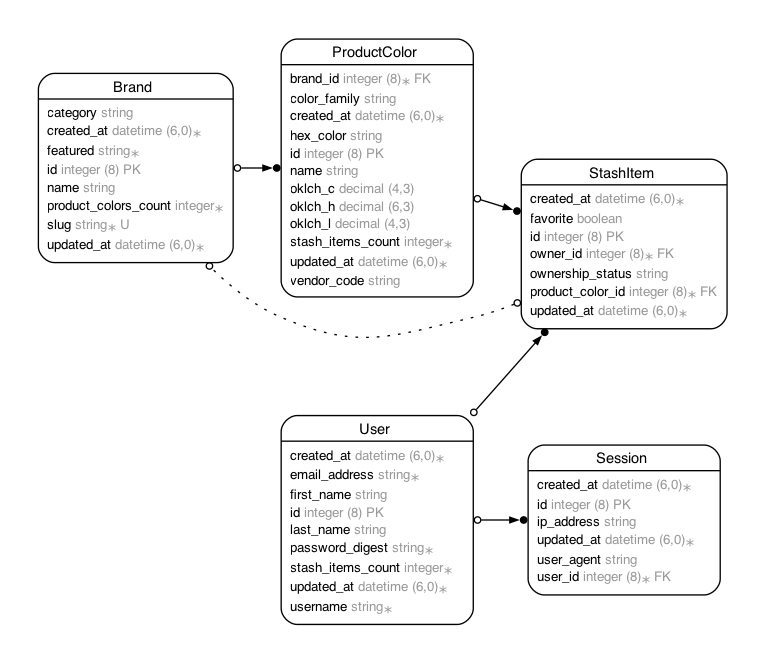
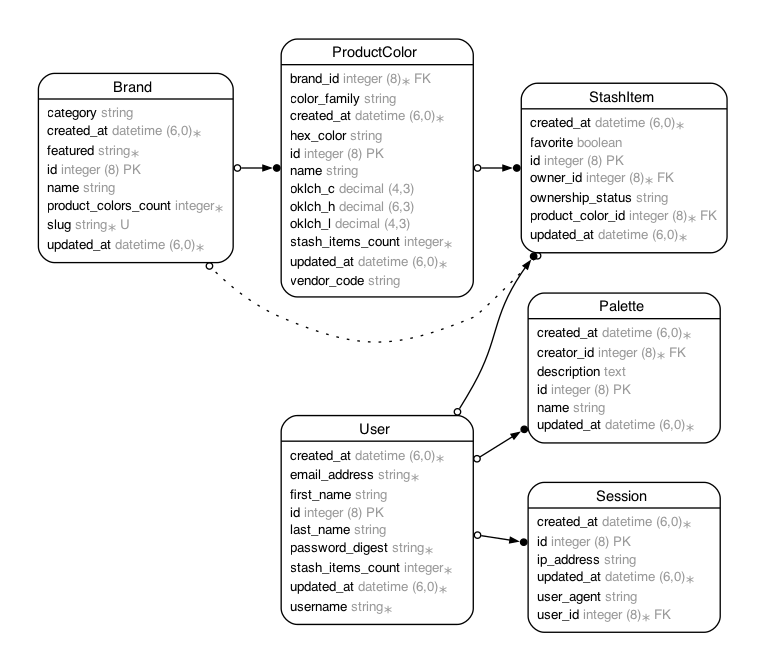
generate palette scaffold

diff --git a/app/controllers/palettes_controller.rb b/app/controllers/palettes_controller.rb
@@ -1,0 +1,70 @@
+class PalettesController < ApplicationController
+  before_action :set_palette, only: %i[ show edit update destroy ]
+
+  # GET /palettes or /palettes.json
+  def index
+    @palettes = Palette.all
+  end
+
+  # GET /palettes/1 or /palettes/1.json
+  def show
+  end
+
+  # GET /palettes/new
+  def new
+    @palette = Palette.new
+  end
+
+  # GET /palettes/1/edit
+  def edit
+  end
+
+  # POST /palettes or /palettes.json
+  def create
+    @palette = Palette.new(palette_params)
+
+    respond_to do |format|
+      if @palette.save
+        format.html { redirect_to @palette, notice: "Palette was successfully created." }
+        format.json { render :show, status: :created, location: @palette }
+      else
+        format.html { render :new, status: :unprocessable_entity }
+        format.json { render json: @palette.errors, status: :unprocessable_entity }
+      end
+    end
+  end
+
+  # PATCH/PUT /palettes/1 or /palettes/1.json
+  def update
+    respond_to do |format|
+      if @palette.update(palette_params)
+        format.html { redirect_to @palette, notice: "Palette was successfully updated." }
+        format.json { render :show, status: :ok, location: @palette }
+      else
+        format.html { render :edit, status: :unprocessable_entity }
+        format.json { render json: @palette.errors, status: :unprocessable_entity }
+      end
+    end
+  end
+
+  # DELETE /palettes/1 or /palettes/1.json
+  def destroy
+    @palette.destroy!
+
+    respond_to do |format|
+      format.html { redirect_to palettes_path, status: :see_other, notice: "Palette was successfully destroyed." }
+      format.json { head :no_content }
+    end
+  end
+
+  private
+    # Use callbacks to share common setup or constraints between actions.
+    def set_palette
+      @palette = Palette.find(params.expect(:id))
+    end
+
+    # Only allow a list of trusted parameters through.
+    def palette_params
+      params.expect(palette: [ :name, :creator_id, :description ])
+    end
+end

diff --git a/db/cable_schema.rb b/db/cable_schema.rb
@@ -10,7 +10,7 @@
 #
 # It's strongly recommended that you check this file into your version control system.
 
-ActiveRecord::Schema[8.0].define(version: 2025_11_27_233504) do
+ActiveRecord::Schema[8.0].define(version: 2025_12_03_010052) do
   # These are extensions that must be enabled in order to support this database
   enable_extension "pg_catalog.plpgsql"
 
@@ -25,6 +25,14 @@ ActiveRecord::Schema[8.0].define(version: 2025_11_27_233504) do
     t.index ["category"], name: "index_brands_on_category"
     t.index ["featured"], name: "index_brands_on_featured"
     t.index ["slug"], name: "index_brands_on_slug", unique: true
+  end
+
+  create_table "palettes", force: :cascade do |t|
+    t.string "name"
+    t.bigint "creator_id", null: false
+    t.text "description"
+    t.datetime "created_at", null: false
+    t.datetime "updated_at", null: false
   end
 
   create_table "product_colors", force: :cascade do |t|
@@ -222,6 +230,7 @@ ActiveRecord::Schema[8.0].define(version: 2025_11_27_233504) do
     t.index ["username"], name: "index_users_on_username", unique: true
   end
 
+  add_foreign_key "palettes", "users", column: "creator_id"
   add_foreign_key "product_colors", "brands"
   add_foreign_key "sessions", "users"
   add_foreign_key "solid_queue_blocked_executions", "solid_queue_jobs", column: "job_id", on_delete: :cascade

diff --git a/db/cache_schema.rb b/db/cache_schema.rb
@@ -10,7 +10,7 @@
 #
 # It's strongly recommended that you check this file into your version control system.
 
-ActiveRecord::Schema[8.0].define(version: 2025_11_27_233504) do
+ActiveRecord::Schema[8.0].define(version: 2025_12_03_010052) do
   # These are extensions that must be enabled in order to support this database
   enable_extension "pg_catalog.plpgsql"
 
@@ -25,6 +25,14 @@ ActiveRecord::Schema[8.0].define(version: 2025_11_27_233504) do
     t.index ["category"], name: "index_brands_on_category"
     t.index ["featured"], name: "index_brands_on_featured"
     t.index ["slug"], name: "index_brands_on_slug", unique: true
+  end
+
+  create_table "palettes", force: :cascade do |t|
+    t.string "name"
+    t.bigint "creator_id", null: false
+    t.text "description"
+    t.datetime "created_at", null: false
+    t.datetime "updated_at", null: false
   end
 
   create_table "product_colors", force: :cascade do |t|
@@ -222,6 +230,7 @@ ActiveRecord::Schema[8.0].define(version: 2025_11_27_233504) do
     t.index ["username"], name: "index_users_on_username", unique: true
   end
 
+  add_foreign_key "palettes", "users", column: "creator_id"
   add_foreign_key "product_colors", "brands"
   add_foreign_key "sessions", "users"
   add_foreign_key "solid_queue_blocked_executions", "solid_queue_jobs", column: "job_id", on_delete: :cascade

diff --git a/db/queue_schema.rb b/db/queue_schema.rb
@@ -10,7 +10,7 @@
 #
 # It's strongly recommended that you check this file into your version control system.
 
-ActiveRecord::Schema[8.0].define(version: 2025_11_27_233504) do
+ActiveRecord::Schema[8.0].define(version: 2025_12_03_010052) do
   # These are extensions that must be enabled in order to support this database
   enable_extension "pg_catalog.plpgsql"
 
@@ -25,6 +25,14 @@ ActiveRecord::Schema[8.0].define(version: 2025_11_27_233504) do
     t.index ["category"], name: "index_brands_on_category"
     t.index ["featured"], name: "index_brands_on_featured"
     t.index ["slug"], name: "index_brands_on_slug", unique: true
+  end
+
+  create_table "palettes", force: :cascade do |t|
+    t.string "name"
+    t.bigint "creator_id", null: false
+    t.text "description"
+    t.datetime "created_at", null: false
+    t.datetime "updated_at", null: false
   end
 
   create_table "product_colors", force: :cascade do |t|
@@ -222,6 +230,7 @@ ActiveRecord::Schema[8.0].define(version: 2025_11_27_233504) do
     t.index ["username"], name: "index_users_on_username", unique: true
   end
 
+  add_foreign_key "palettes", "users", column: "creator_id"
   add_foreign_key "product_colors", "brands"
   add_foreign_key "sessions", "users"
   add_foreign_key "solid_queue_blocked_executions", "solid_queue_jobs", column: "job_id", on_delete: :cascade

diff --git a/db/schema.rb b/db/schema.rb
@@ -10,7 +10,7 @@
 #
 # It's strongly recommended that you check this file into your version control system.
 
-ActiveRecord::Schema[8.0].define(version: 2025_11_27_233504) do
+ActiveRecord::Schema[8.0].define(version: 2025_12_03_010052) do
   # These are extensions that must be enabled in order to support this database
   enable_extension "pg_catalog.plpgsql"
 
@@ -25,6 +25,14 @@ ActiveRecord::Schema[8.0].define(version: 2025_11_27_233504) do
     t.index ["category"], name: "index_brands_on_category"
     t.index ["featured"], name: "index_brands_on_featured"
     t.index ["slug"], name: "index_brands_on_slug", unique: true
+  end
+
+  create_table "palettes", force: :cascade do |t|
+    t.string "name"
+    t.bigint "creator_id", null: false
+    t.text "description"
+    t.datetime "created_at", null: false
+    t.datetime "updated_at", null: false
   end
 
   create_table "product_colors", force: :cascade do |t|
@@ -222,6 +230,7 @@ ActiveRecord::Schema[8.0].define(version: 2025_11_27_233504) do
     t.index ["username"], name: "index_users_on_username", unique: true
   end
 
+  add_foreign_key "palettes", "users", column: "creator_id"
   add_foreign_key "product_colors", "brands"
   add_foreign_key "sessions", "users"
   add_foreign_key "solid_queue_blocked_executions", "solid_queue_jobs", column: "job_id", on_delete: :cascade

diff --git a/app/models/palette.rb b/app/models/palette.rb
@@ -1,0 +1,18 @@
+# == Schema Information
+#
+# Table name: palettes
+#
+#  id          :bigint           not null, primary key
+#  description :text
+#  name        :string
+#  created_at  :datetime         not null
+#  updated_at  :datetime         not null
+#  creator_id  :bigint           not null
+#
+# Foreign Keys
+#
+#  fk_rails_...  (creator_id => users.id)
+#
+class Palette < ApplicationRecord
+  belongs_to :creator, class_name: "User"
+end

diff --git a/config/routes.rb b/config/routes.rb
@@ -1,5 +1,5 @@
 Rails.application.routes.draw do
- root "pages#home"
+  root "pages#home"
 
   get "/dashboard" => "pages#dashboard", as: :dashboard
 
@@ -19,6 +19,7 @@ Rails.application.routes.draw do
   resource :session, only: [ :new, :create, :destroy ]
   resources :passwords, param: :token
 
+  resources :palettes
   resources :product_colors, only: [ :index, :show ]
   resources :stash_items do
     member do

diff --git a/db/migrate/20251203010052_create_palettes.rb b/db/migrate/20251203010052_create_palettes.rb
@@ -1,0 +1,11 @@
+class CreatePalettes < ActiveRecord::Migration[8.0]
+  def change
+    create_table :palettes do |t|
+      t.string :name
+      t.references :creator, null: false, foreign_key: { to_table: :users }, index: false
+      t.text :description
+
+      t.timestamps
+    end
+  end
+end
